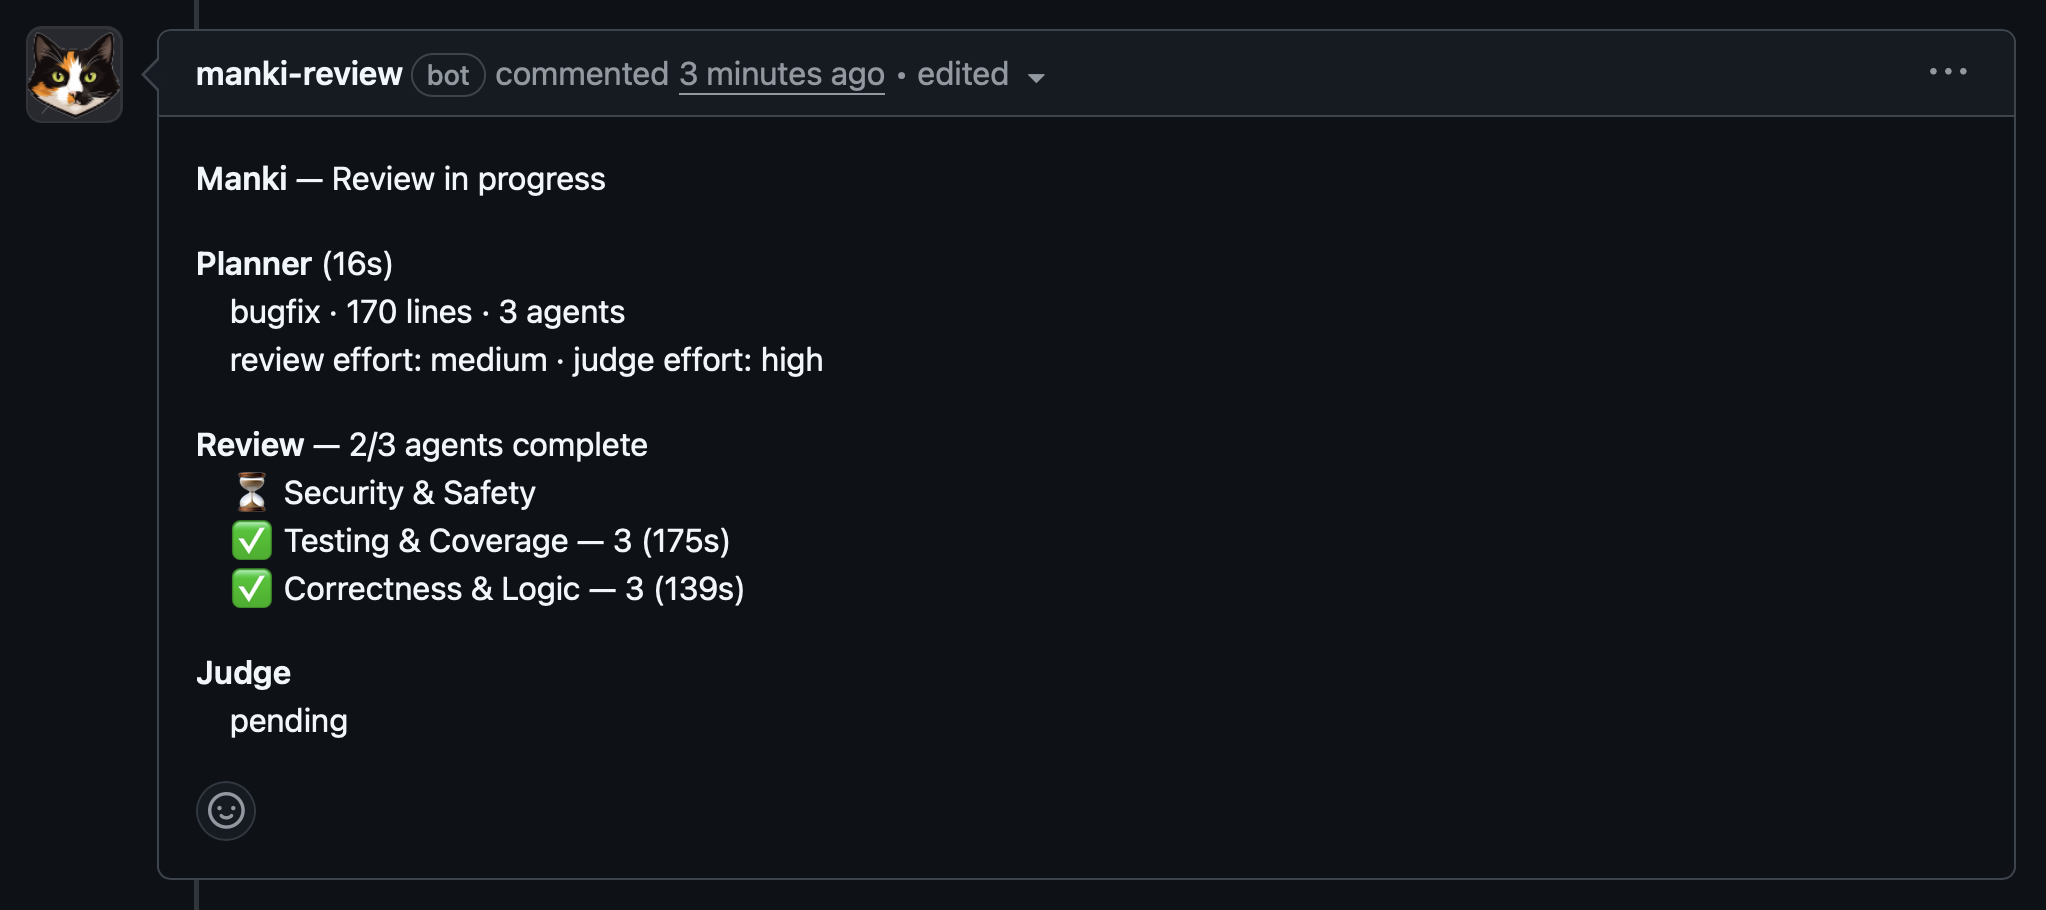
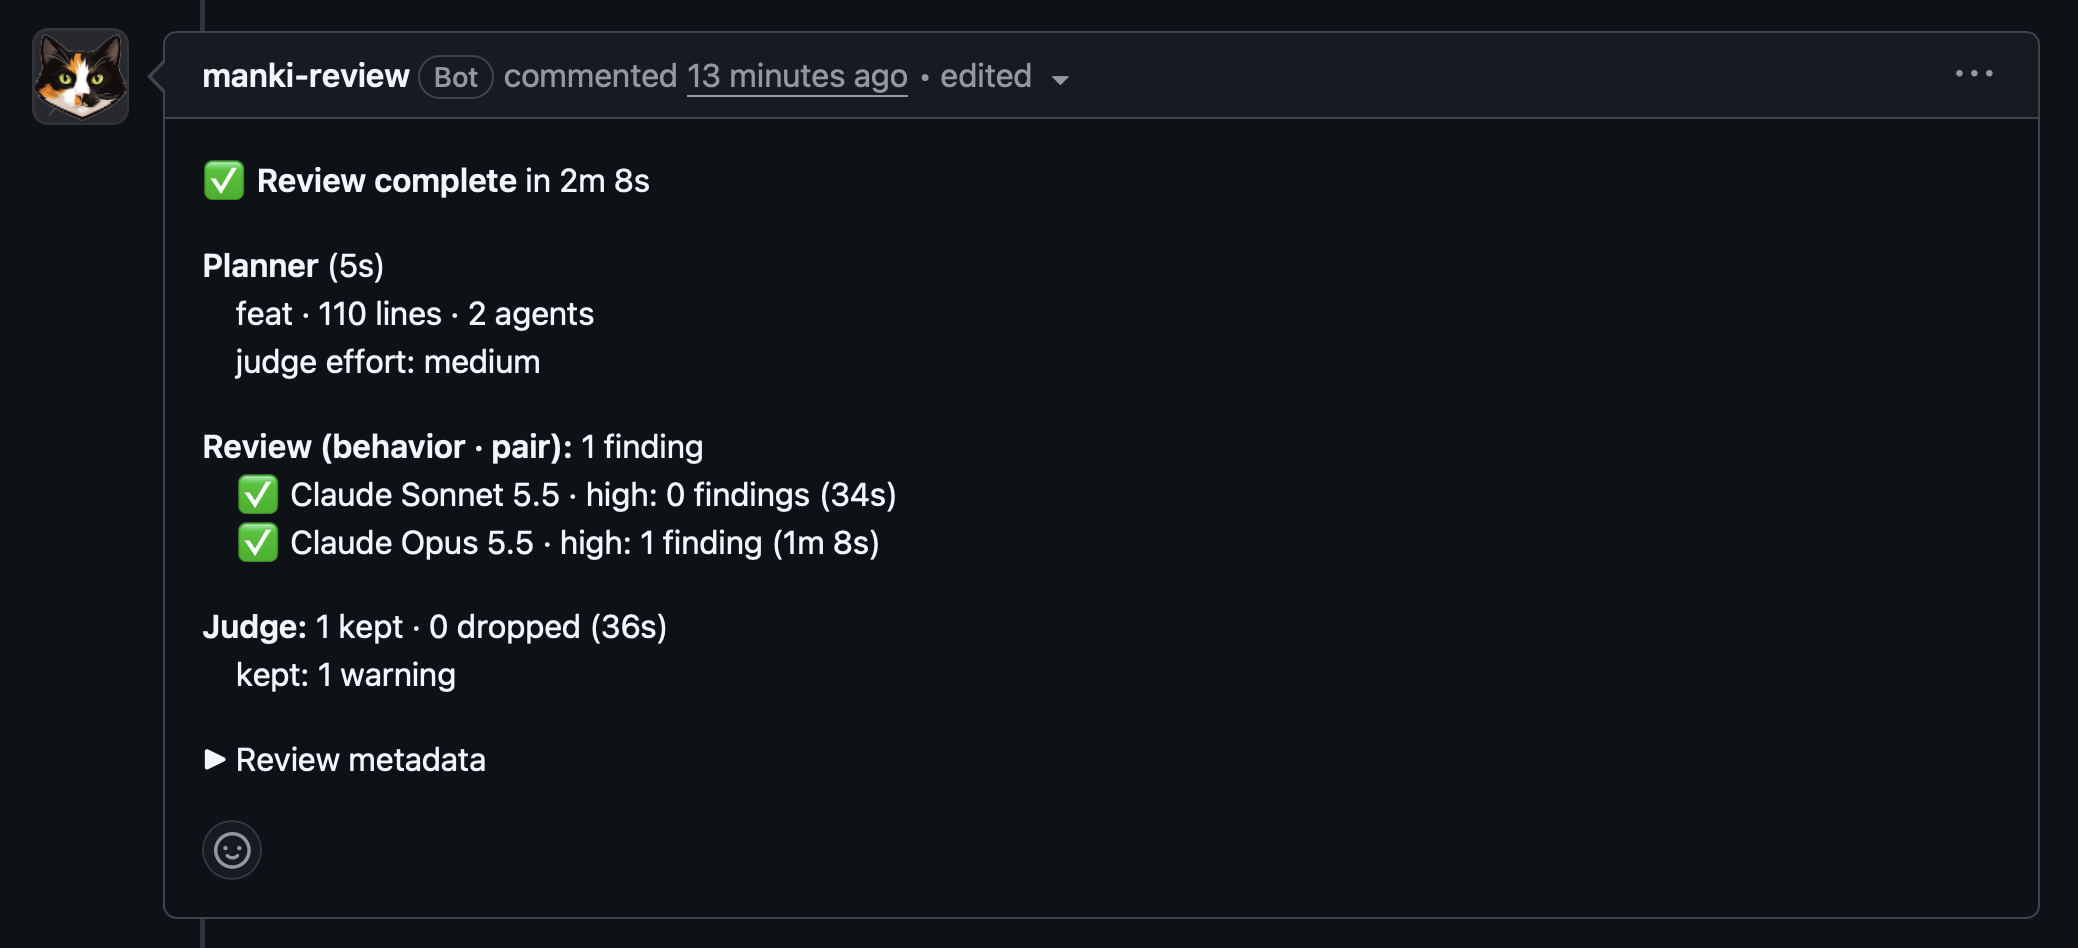
docs: refresh the README screenshot and pipeline image
The screenshot showed a progress comment from an older version. The new one shows a finished review as `buildDashboard` renders it today: the planner line, the review group with two finders and their models, and the judge line.

The pipeline image called the finders specialists, named the posting step "Verdict" and had no verdict reader. It now shows planner, finders, dedup, judge, verdict reader and the posted review, in the same style and size.

The homepage examples linked to reviews in the old format with five named agents. They now link to three recent reviews, and the pipeline sentence names the verdict reader.

diff --git a/docs/index.html b/docs/index.html
@@ -31,7 +31,7 @@
       <div class="pillars">
         <div class="pillar">
           <h3>Multi-stage pipeline</h3>
-          <p>Planner, Reviewer, Dedup, Judge. Each stage has a specific job; dedup removes repeats before the judge classifies what survives.</p>
+          <p>Planner, finders, dedup, judge and a verdict reader. Each stage has a specific job: dedup removes repeats before the judge classifies what survives, and the verdict reader reads the diff cold before an approval.</p>
         </div>
         <div class="pillar">
           <h3>Bring your own model</h3>
@@ -187,16 +187,16 @@ jobs:
       <p style="text-align:center;color:#b0b8c4;margin-bottom:32px;">Real reviews on real PRs &mdash; no staged demos.</p>
       <div class="pr-cards">
         <div class="pr-card">
-          <span class="pr-title">run dedup before judge to fix stale summary</span>
-          <a href="https://github.com/manki-review/manki/pull/472" class="pr-link">View review &rarr;</a>
+          <span class="pr-title">report noise figures in the weekly stats</span>
+          <a href="https://github.com/manki-review/manki/pull/1415" class="pr-link">View review &rarr;</a>
         </div>
         <div class="pr-card">
-          <span class="pr-title">embed version in `manki-bot` comment marker</span>
-          <a href="https://github.com/manki-review/manki/pull/468" class="pr-link">View review &rarr;</a>
+          <span class="pr-title">point finders to a related repo's guide</span>
+          <a href="https://github.com/manki-review/manki/pull/1424" class="pr-link">View review &rarr;</a>
         </div>
         <div class="pr-card">
-          <span class="pr-title">progress dashboard — stage grouping, icons, no pre-planner flicker</span>
-          <a href="https://github.com/manki-review/manki/pull/469" class="pr-link">View review &rarr;</a>
+          <span class="pr-title">translate names before the related repo pre-search</span>
+          <a href="https://github.com/manki-review/manki/pull/1432" class="pr-link">View review &rarr;</a>
         </div>
       </div>
     </div>

diff --git a/README.md b/README.md
@@ -14,7 +14,7 @@
 Manki sizes each review to the nature of the change: one reader for a change where no defect could hide, two readers on different models for one that could reach your users. Dedup drops repeats from prior reviews, a judge filters noise and classifies what remains, and manki learns your team's conventions over time.
 
 <p align="center">
-  <img src="assets/review-example.png" alt="Example manki review comment" width="800" />
+  <img src="assets/review-example.png" alt="Manki's progress comment after a review: the planner's triage, the two finders of the review group with their models, and the judge's result" width="800" />
 </p>
 
 ## Why Manki
@@ -40,7 +40,7 @@ Full setup guide with troubleshooting: **[Getting started](docs/getting-started.
 Manki wakes up when a PR is opened. A fast planner (Haiku) triages the change and sets the effort, one or two finders review it in parallel, dedup drops findings that match repeats from prior reviews, and the judge evaluates and classifies what remains. When nothing blocks, a verdict reader reads the whole diff cold before Manki approves. Results land as inline comments plus a summary and verdict. A finding shows what goes wrong, with everything else in one collapsed section: how to fix it, why it matters, and how it was checked. Its summary names those parts, counts the places read and, for a finding the refuter checked, names the outcome of that check. Inside, up to three places show as GitHub code previews, each under the sentence its check gives, and the rest are linked. A finding that cites nothing says so. When all blocking threads resolve, manki approves.
 
 <p align="center">
-  <img src="assets/pipeline.svg" alt="Manki review pipeline: Planner → Reviewers → Dedup → Judge → Review Posted" />
+  <img src="assets/pipeline.svg" alt="Manki review pipeline: Planner → Finders → Dedup → Judge → Verdict reader → Review posted" />
 </p>
 
 See [How reviews work](docs/how-reviews-work.md#review-pipeline) for the full walkthrough.
